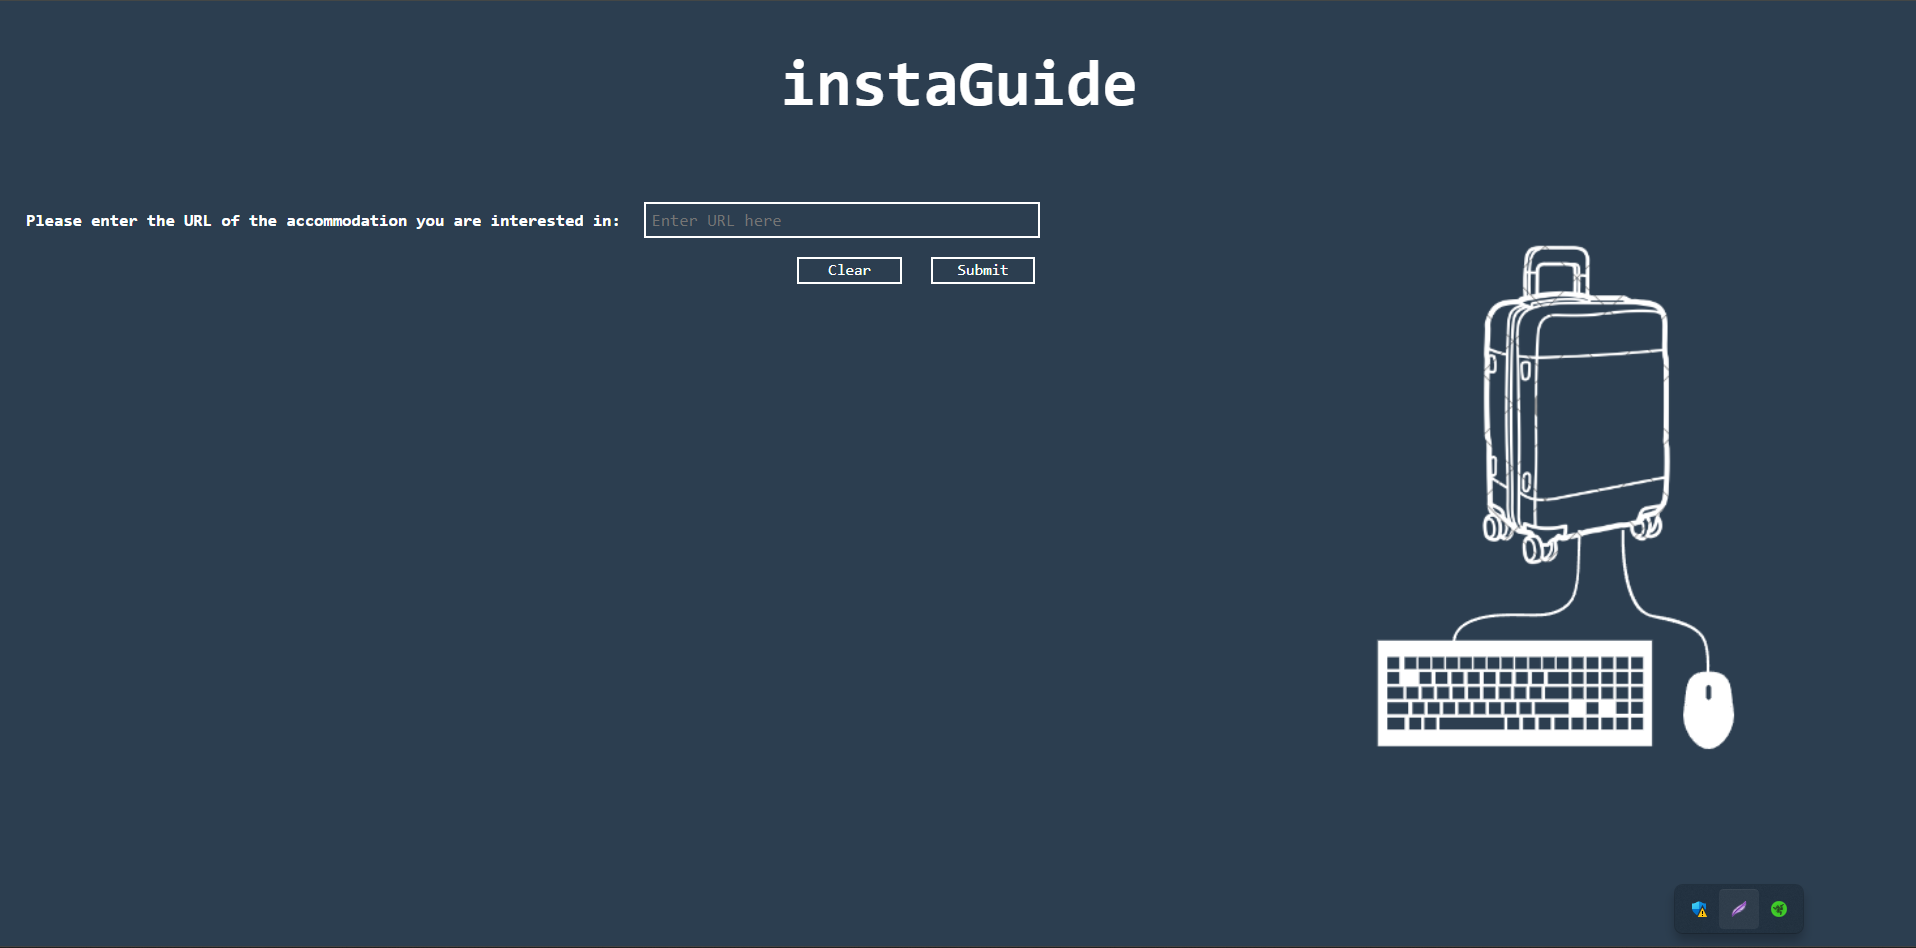
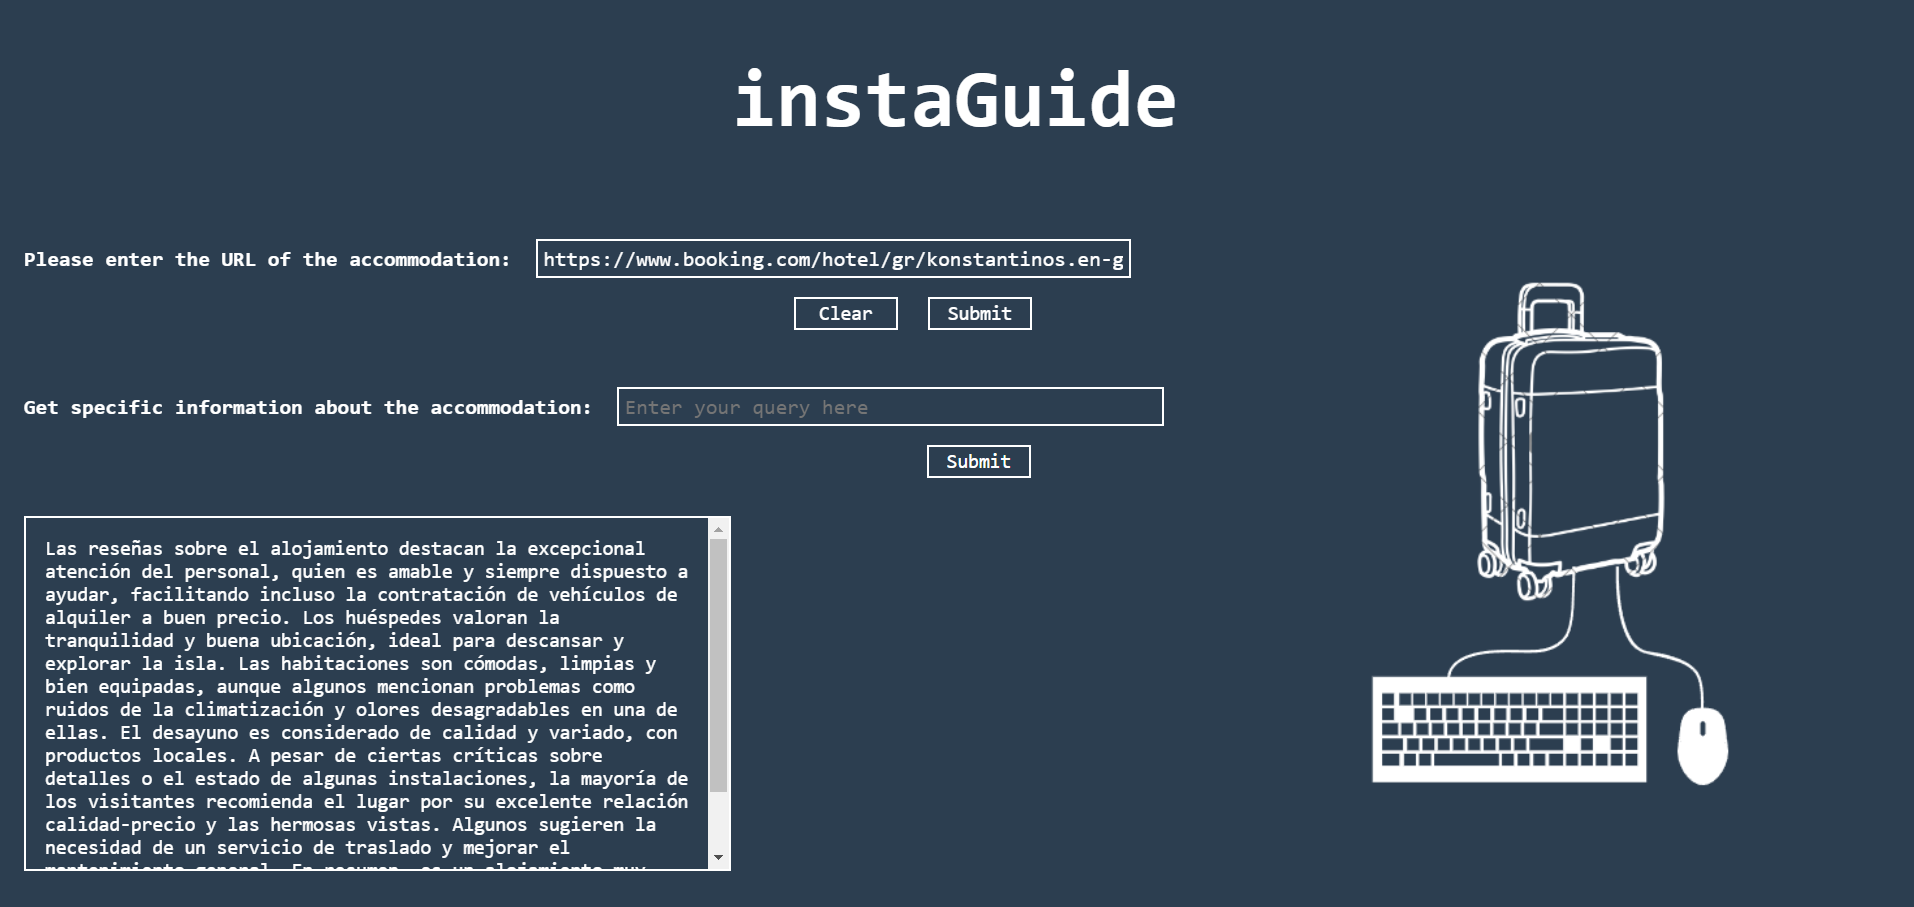
Fifth version
Beyond the summary of the reviews, the user also has the ability to receive answers to specific questions, which are based on the entirety of the reviews that have been retrieved. The answers, of course, are displayed on the page. We use the GPT-4o-mini for the data analysis and conclusion extraction.

diff --git a/Django_project/static/home.js b/Django_project/static/home.js
@@ -1,7 +1,9 @@
+
+var summary; 
+
 function submitForm() {
     var urlInput = document.getElementById('accommodationUrl').value;
 
-    
     if (urlInput.trim() === "") {
         showModal("Warning: The URL field cannot be empty.");
     } else {
@@ -11,8 +13,9 @@ function submitForm() {
         } else {
             var csrftoken = getCookie('csrftoken');
 
-            document.getElementById('textbox').innerText = "Creating summary...";
+            document.getElementById('textbox').innerText = "Fetching reviews...";
 
+            
             fetch('/get_reviews/', {
                 method: 'POST',
                 headers: {
@@ -23,10 +26,21 @@ function submitForm() {
                     'accommodationUrl': urlInput
                 })
             })
-            .then(response => response.text())  
-            .then(data => {
+            .then(() => {
+                document.getElementById('textbox').innerText = "Creating summary...";
                 
-                document.getElementById('textbox').innerText = data;
+                return fetch('/cr_summ/', {
+                    method: 'POST',
+                    headers: {
+                        'Content-Type': 'application/x-www-form-urlencoded',
+                        'X-CSRFToken': csrftoken
+                    }
+                });
+            })
+            .then(response => response.text())  
+            .then(summary => {
+                
+                document.getElementById('textbox').innerText = summary;
             })
             .catch(error => {
                 console.error('Error:', error);
@@ -37,10 +51,65 @@ function submitForm() {
 
 
 
+function submitQuery() {
+    var specificInfo = document.getElementById('specificInfo').value;
+
+    if (specificInfo.trim() === "") {
+        showModal("Warning: The query field cannot be empty.");
+    } else {
+        var csrftoken = getCookie('csrftoken');
+        document.getElementById('textbox').innerText = "Processing query...";
+      
+        fetch('/get_query/', {
+            method: 'POST',
+            headers: {
+                'Content-Type': 'application/x-www-form-urlencoded',
+                'X-CSRFToken': csrftoken
+            },
+            body: new URLSearchParams({
+                'specificInfo': specificInfo
+            })
+        })
+        .then(response => response.text())
+        .then(data => {
+            if (data === "no_url") {
+                               
+                document.getElementById('textbox').innerText = 'The summary and the answers to the queries will appear here...';
+                showModal("Warning: You need to provide the accommodation URL first.");
+                
+            } else {
+                
+                document.getElementById('textbox').innerText = data;
+            }
+        })
+        .catch(error => {
+            console.error('Error:', error);
+        });
+    }
+}
+
+
+
 function clearForm() {
-    document.getElementById('accommodationUrl').value = "";
-    document.getElementById('textbox').innerText = "The summary of the accommodation reviews will appear here ...";
-    console.log("Form and textbox cleared");
+    var csrftoken = getCookie('csrftoken');
+
+    fetch('/clear_reviews/', {
+        method: 'POST',
+        headers: {
+            'X-CSRFToken': csrftoken
+        }
+    })
+    .then(response => response.text())
+    .then(data => {
+        document.getElementById('accommodationUrl').value = "";
+        document.getElementById('specificInfo').value = ""; 
+        document.getElementById('textbox').innerText = "The summary and the answers to the queries will appear here...";
+        console.log("Form and reviews cleared");
+        summary = undefined;
+    })
+    .catch(error => {
+        console.error('Error:', error);
+    });
 }
 
 
@@ -53,13 +122,11 @@ function showModal(message) {
     modal.style.pointerEvents = "auto";
 }
 
-
 function closeModal() {
     var modal = document.getElementById('customAlert');
     modal.style.display = "none";
     document.body.style.pointerEvents = "auto";
 }
-
 
 function getCookie(name) {
     let cookieValue = null;

diff --git a/Django_project/templates/home.html b/Django_project/templates/home.html
@@ -15,7 +15,7 @@
     <main>
         <form id="accommodationForm" method="POST">
             {% csrf_token %}
-            <label for="accommodationUrl" class="label_url"><b>Please enter the URL of the accommodation you are interested in:</b></label>
+            <label for="accommodationUrl" class="label_url"><b>Please enter the URL of the accommodation:</b></label>
             <input type="text" id="accommodationUrl" name="accommodationUrl" class="url-input" placeholder="Enter URL here">
             
             <div class="button-container">
@@ -25,8 +25,17 @@
         </form>
 
         
+        <form id="specificInfoForm">
+            <label for="specificInfo" class="label_url2"><b>Get specific information about the accommodation:</b></label>
+            <input type="text" id="specificInfo" name="specificInfo" class="txt-input" placeholder="Enter your query here">
+            <div class="button-container">
+                <button type="button" class="btn3 submit-btn" onclick="submitQuery()">Submit</button>
+            </div>
+        </form>
+
+       
         <div id="textbox" class="textbox">
-            The summary of the accommodation reviews will appear here ...
+            The summary and the answers to the queries will appear here...
         </div>
     </main>
 

diff --git a/Django_project/static/home.css b/Django_project/static/home.css
@@ -40,8 +40,8 @@ h1 {
     font-family: monospace;
     outline: none;
     margin-left: 1%;
-    width: 20%;
-    margin-top: 1%;
+    width: 30.5%;
+    margin-top: 2%;
 }
 
 .label_url{
@@ -50,6 +50,29 @@ h1 {
     font-family: monospace;
     margin-left: 1%;
 }
+
+.label_url2{
+    color: white;
+    font-size: 130%;
+    font-family: monospace;
+    margin-left: 1%;
+    
+}
+
+
+.txt-input {
+    border: 2px solid white;
+    background-color: #2C3E50;
+    color: rgb(255, 255, 255);
+    padding: 0.3%;
+    font-size: 130%;
+    font-family: monospace;
+    outline: none;
+    margin-left: 1%;
+    width: 28%;
+    margin-top: 3%;
+}
+
 
 
 .button-container {
@@ -84,6 +107,20 @@ h1 {
     background-color: #34495E; 
 }
 .btn2:hover {
+    background-color: #34495E; 
+}
+
+.btn3 {
+    border: 2px solid white;
+    background-color: #2C3E50;
+    color: white;
+    padding: 0.15% 0.5%;
+    font-size: 120%;
+    font-family: monospace;
+    cursor: pointer;
+    margin-left: 48.5%;
+}
+.btn3:hover {
     background-color: #34495E; 
 }
 
@@ -139,7 +176,7 @@ h1 {
     padding: 1%;
     font-size: 120%;
     font-family: monospace;
-    margin-top: 12%;
+    margin-top: 2%;
     width: 35%;
     margin-left: 1%;
     height: 250px;

diff --git a/Django_project/base/rev_summ.py b/Django_project/base/rev_summ.py
@@ -1,7 +1,7 @@
 import openai
 
 # Setting the OpenAI API key
-
+openai.api_key = "MY_KEY"
 
 def summarize_reviews(reviews):
     
@@ -12,15 +12,16 @@ def summarize_reviews(reviews):
         response = openai.ChatCompletion.create(
             model="gpt-4o-mini",
             messages=[
-                {"role": "system", "content": "You are a helpful assistant that summarizes hotel reviews."},
-                {"role": "user", "content": f"Please summarize the following hotel reviews in a single paragraph, and make sure the summary is no longer than 150 words: {reviews}"}
+                {"role": "system", "content": "You are a helpful assistant that summarizes accommodation reviews."},
+                {"role": "user", "content": f"Please summarize the following accommodation reviews in a single paragraph, and make sure the summary is no longer than 150 words: {reviews}"}
             ],
-            max_tokens= 250,  # Set the maximum number of tokens (words/characters) for the model's response (the summary)
+            max_tokens= 300,  # Set the maximum number of tokens (words/characters) for the model's response (the summary)
         )
         
         # Get the summary
         summary = response['choices'][0]['message']['content']
-                        
+        
+                
         return summary
 
     except Exception as e:

diff --git a/Django_project/base/views.py b/Django_project/base/views.py
@@ -2,21 +2,43 @@ from django.http import HttpResponse
 from django.shortcuts import render
 from base.get_rev import get_rev
 from base.rev_summ import summarize_reviews
+from base.ans_query import ans_query
+
+reviews = None
+
 
 def home(request):
     return render(request, 'home.html')
 
 def get_reviews(request):
+    global reviews
     if request.method == "POST":
-        print("The get_reviews function has been triggered.")
         url = request.POST.get('accommodationUrl')
-        print(f"Received URL: {url}")
-
-        
         reviews = get_rev(url)
-
+        return HttpResponse(0)
         
+
+def cr_summ(request):
+    global reviews
+    if request.method == "POST":
         reviews_summary = summarize_reviews(reviews)
-
-        
         return HttpResponse(reviews_summary)
+
+
+def get_query(request):
+    global reviews
+    if request.method == "POST":
+        query = request.POST.get('specificInfo')
+        
+        if reviews is None:
+            
+            return HttpResponse("no_url")
+                
+        answer = ans_query(query, reviews)
+        return HttpResponse(answer)
+    
+
+def clear_reviews(request):
+    global reviews
+    reviews = None
+    return HttpResponse("Reviews cleared.")

diff --git a/Django_project/base/ans_query.py b/Django_project/base/ans_query.py
@@ -1,0 +1,29 @@
+import openai
+
+# Setting the OpenAI API key
+openai.api_key = "MY_KEY"
+
+def ans_query(query, reviews):
+    
+    #We receive a query and return an answer based on the reviews, using GPT-4o-mini.
+    
+    try:
+        # Call to GPT-4o-mini for generating an answer
+        response = openai.ChatCompletion.create(
+            model="gpt-4o-mini",
+           messages = [
+    {"role": "system", "content": "You are a helpful assistant that responds to requests and questions related to accommodation reviews."},
+    {"role": "user", "content": f"Based on these reviews: {reviews}, please respond to the following request or question in less than 200 words: {query}"}
+        ],
+            max_tokens= 500,  # Set the maximum number of tokens (words/characters) for the model's answer
+        )
+        
+        # Get the answer
+        answer = response['choices'][0]['message']['content']
+        
+                
+        return answer
+
+    except Exception as e:
+        print(f"An error occurred: {e}")
+        return None

diff --git a/Django_project/base/get_rev.py b/Django_project/base/get_rev.py
@@ -4,7 +4,7 @@ from concurrent.futures import ThreadPoolExecutor, as_completed
 
 # Uses the 'Booking.com Reviews Scraper' by Apify to get the reviews of the given accommodation
 def get_rev(url):
-    client = ApifyClient("apify_api_W8TJ02LuVFAclhcN3YwoMjYkjhiwK01iGbMF")
+    client = ApifyClient("apify_api_VHvKCWnWG63SxqA87sBZV31NKoHtfP0u9jjc")
     run_input = {
         "url": url,
         "numberOfReviews": 20,

diff --git a/Django_project/base/urls.py b/Django_project/base/urls.py
@@ -4,4 +4,7 @@ from . import views
 urlpatterns = [
     path('', views.home, name="home"),  
     path('get_reviews/', views.get_reviews, name="get_reviews"), 
+    path('get_query/', views.get_query, name='get_query'), 
+    path('clear_reviews/', views.clear_reviews, name='clear_reviews'),
+    path('cr_summ/', views.cr_summ, name='cr_summ'),
 ]
